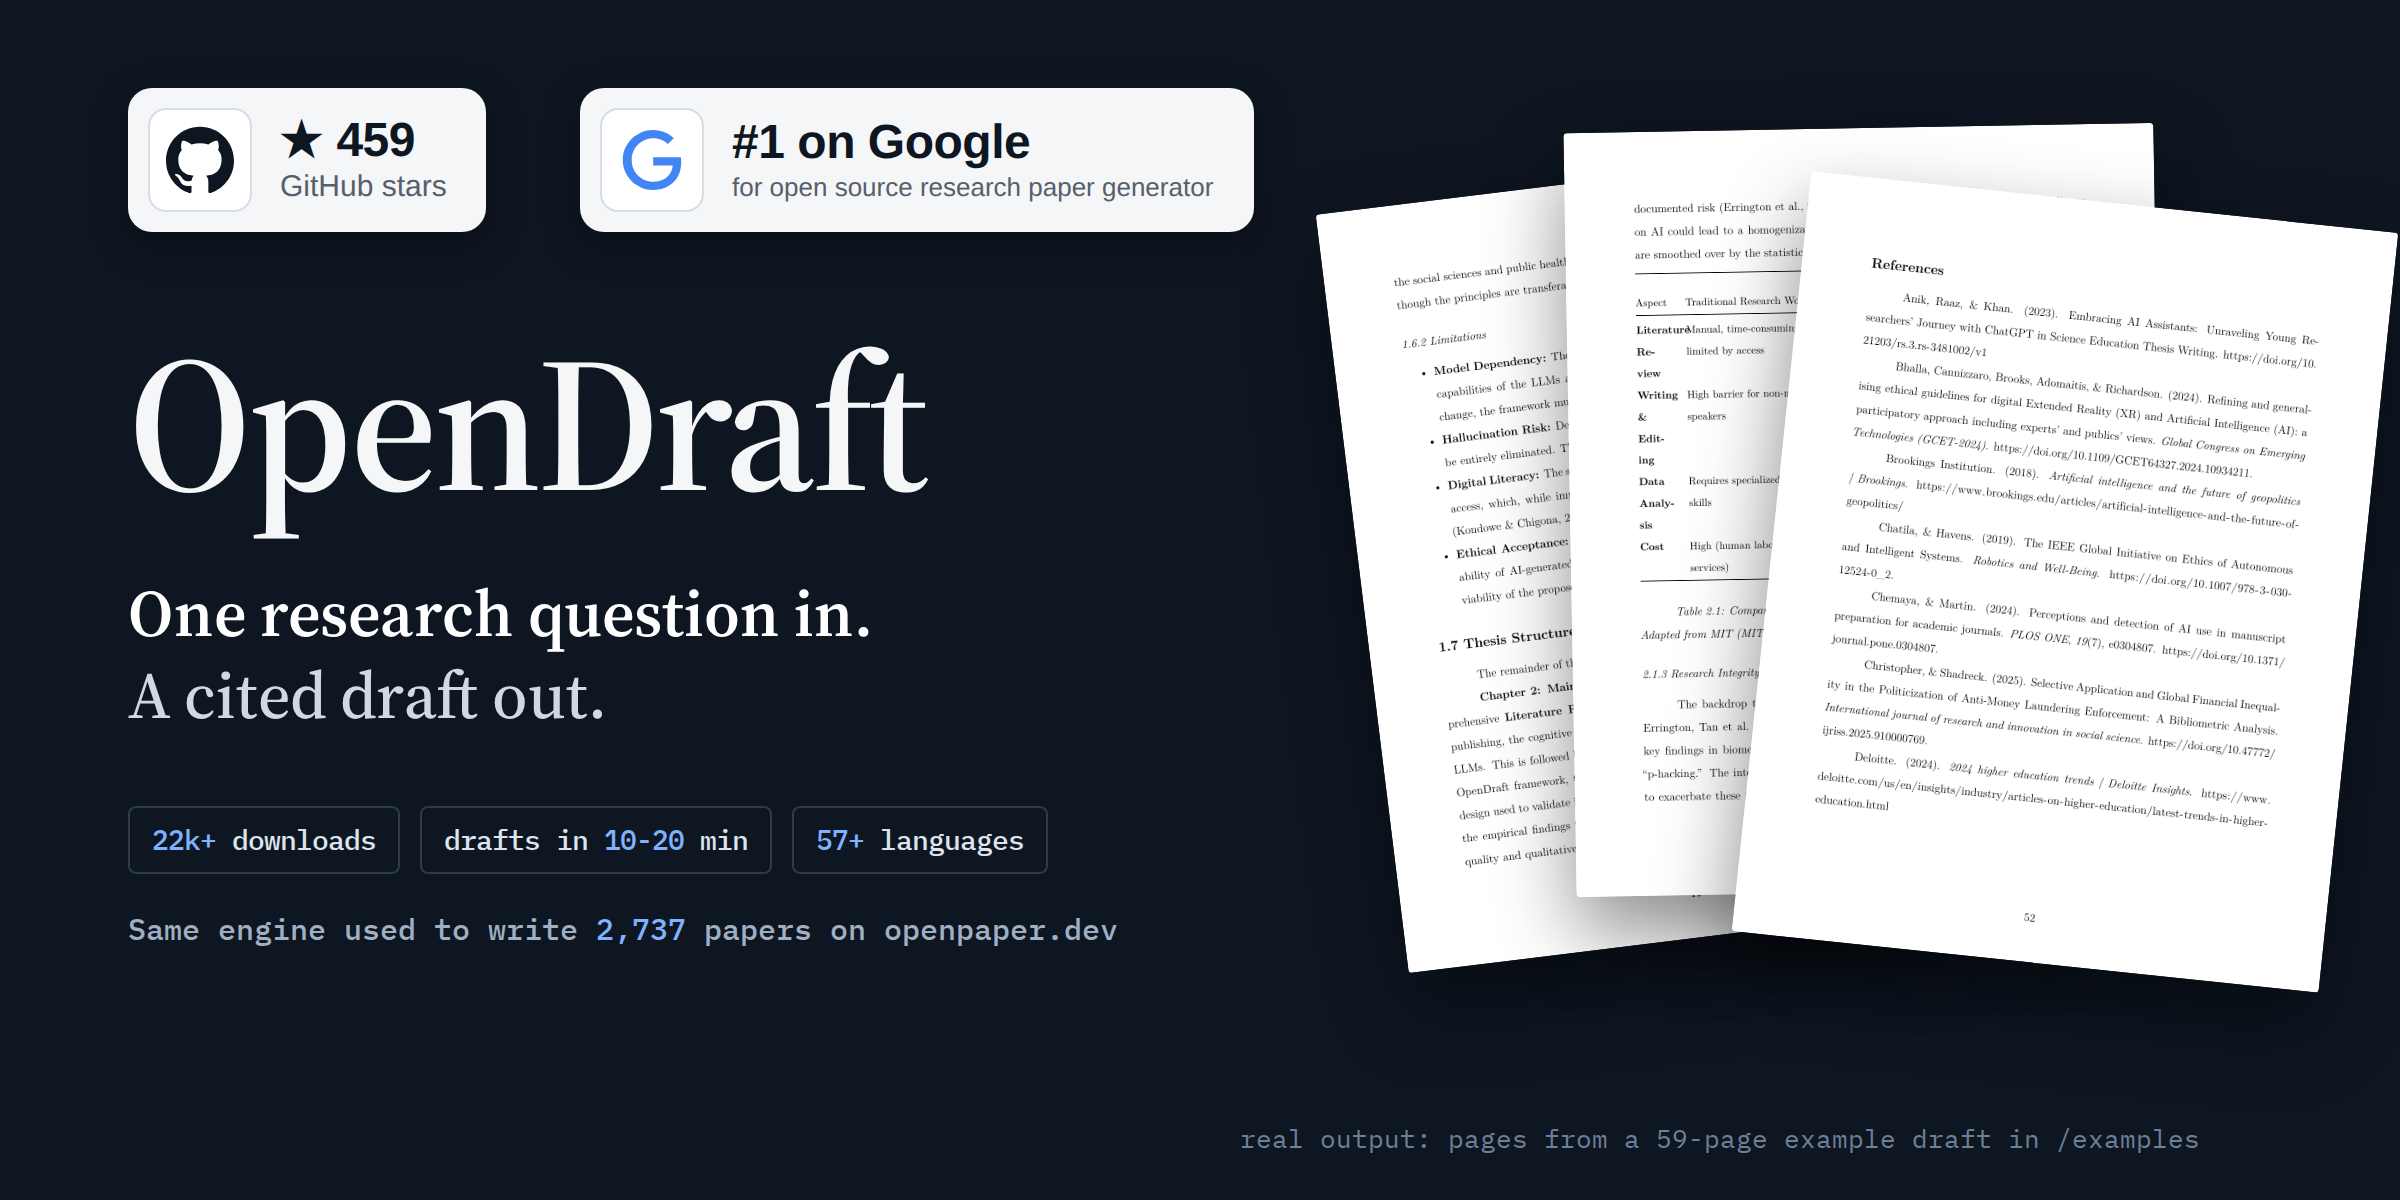
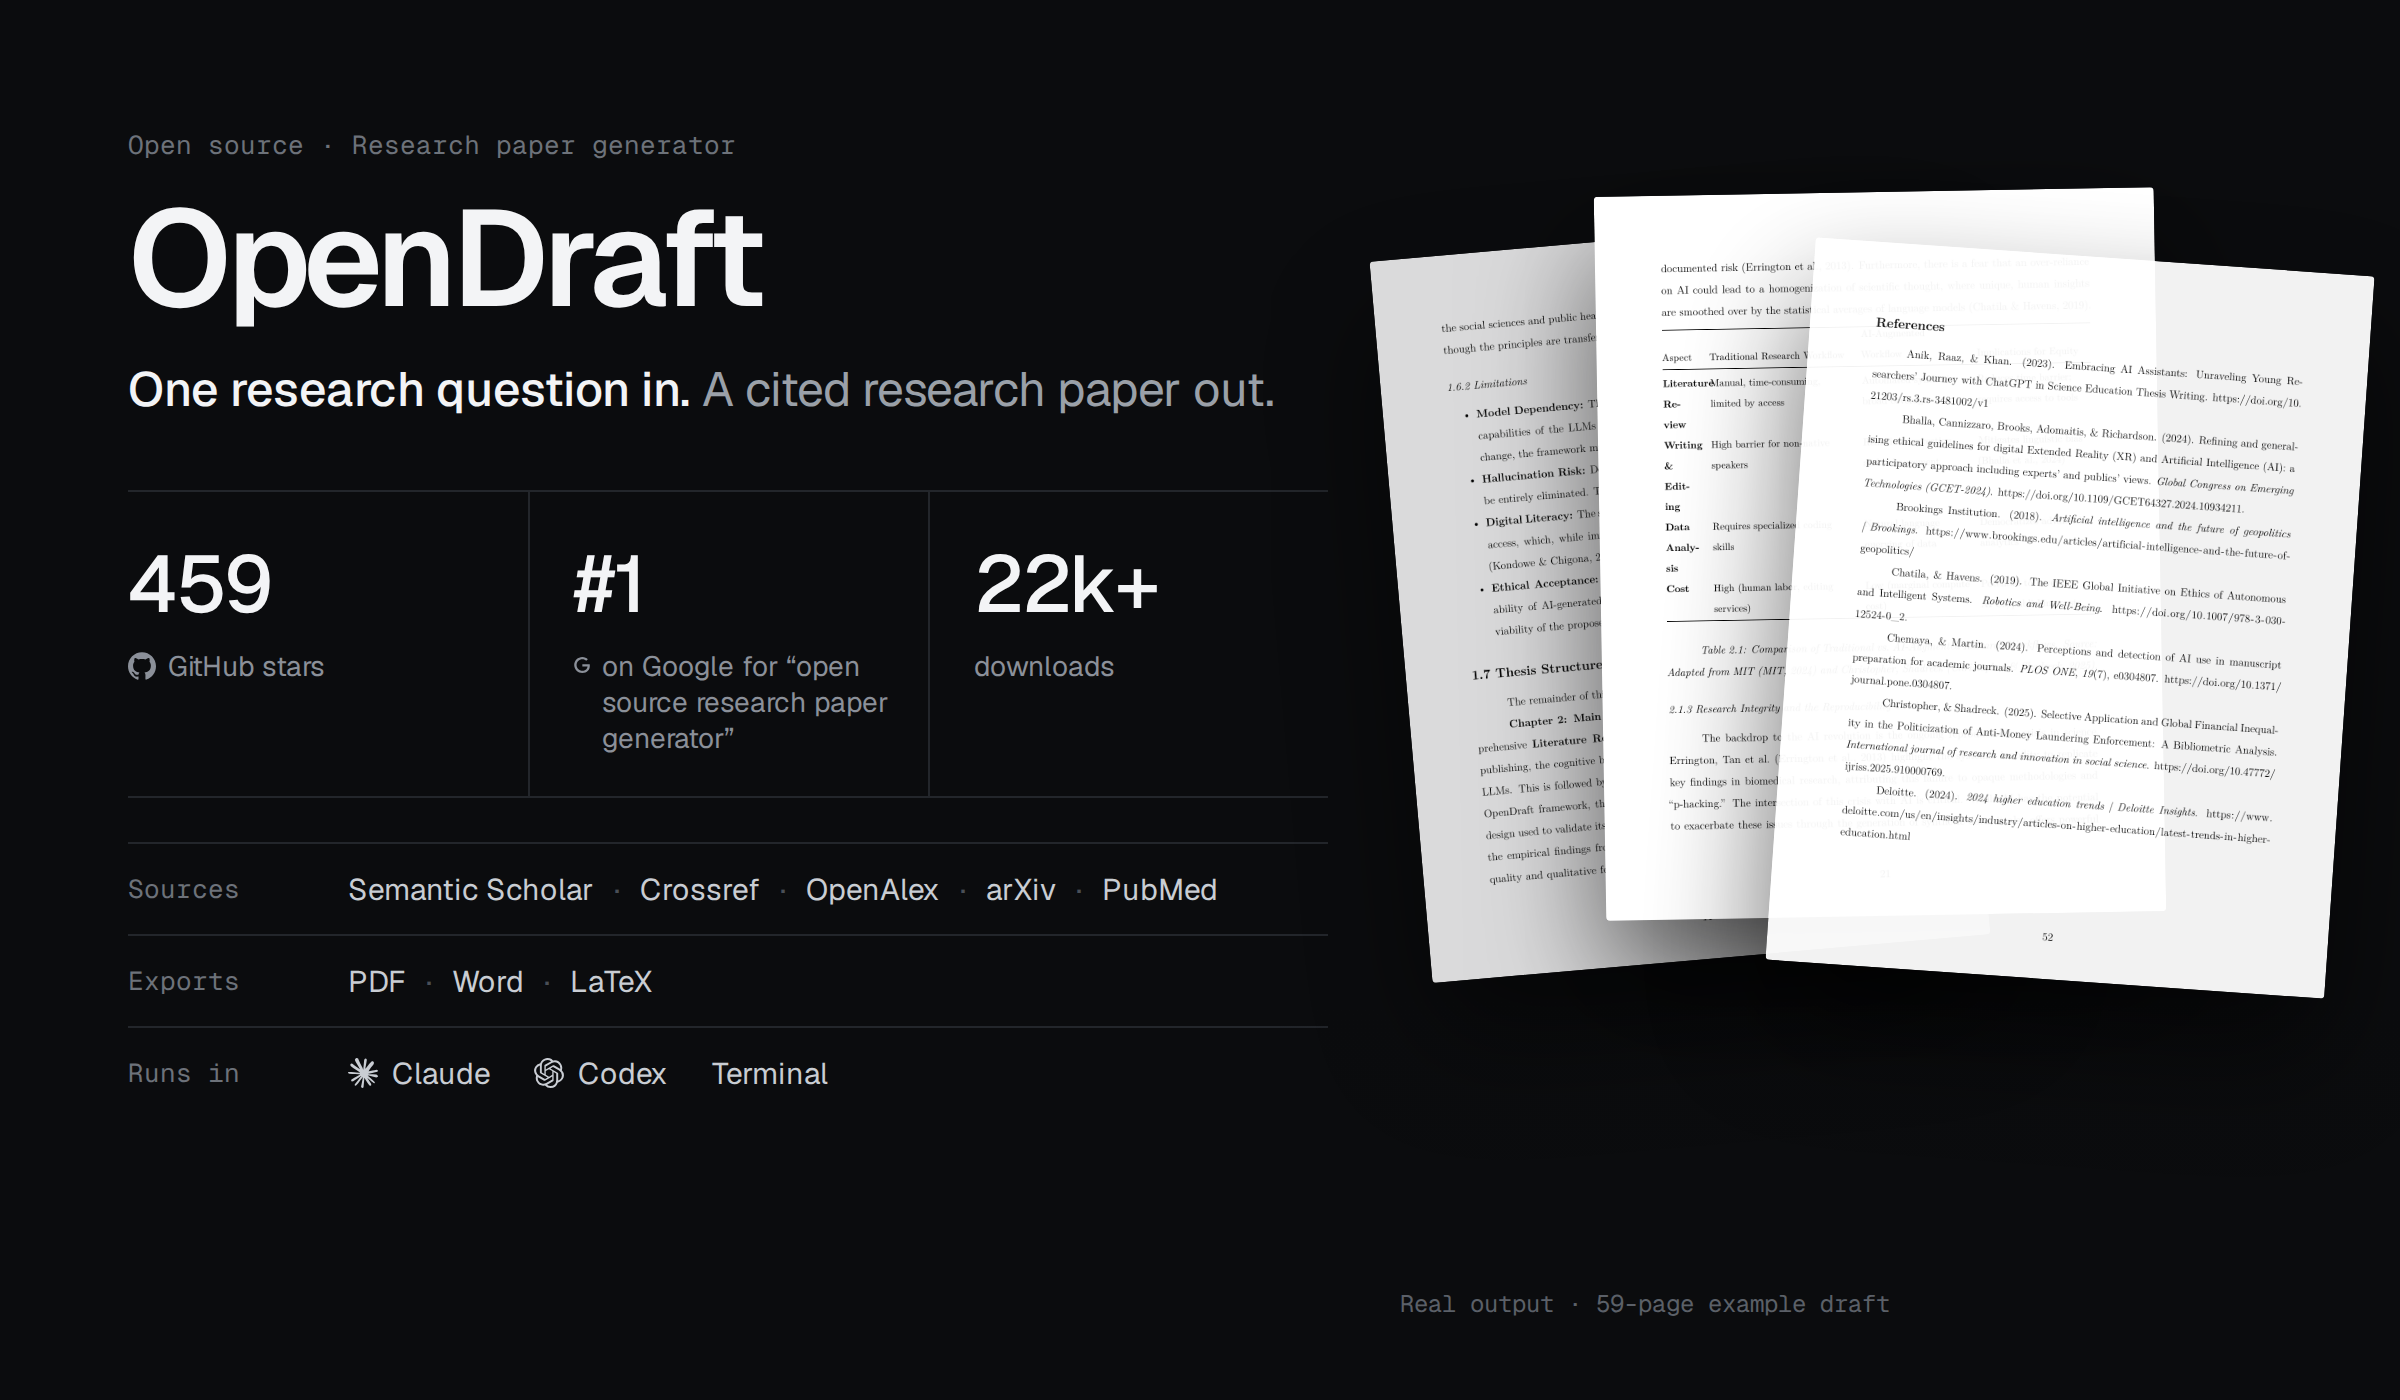
docs: refresh README hero visual (#79)
* docs: refresh README hero visual

* docs: update hero alt text

---------

diff --git a/README.md b/README.md
@@ -1,5 +1,5 @@
 <p align="center">
-  <a href="examples/Why_Academic_Thesis_AI_Saves_The_World.pdf"><img src="assets/readme/hero.png" width="100%" alt="OpenDraft, open-source research agent: one research question in, a cited draft out."></a>
+  <a href="examples/Why_Academic_Thesis_AI_Saves_The_World.pdf"><img src="assets/readme/hero.png" width="100%" alt="OpenDraft: 459 GitHub stars, #1 on Google for open source research paper generator, 22k+ downloads"></a>
 </p>
 
 <p align="center">
